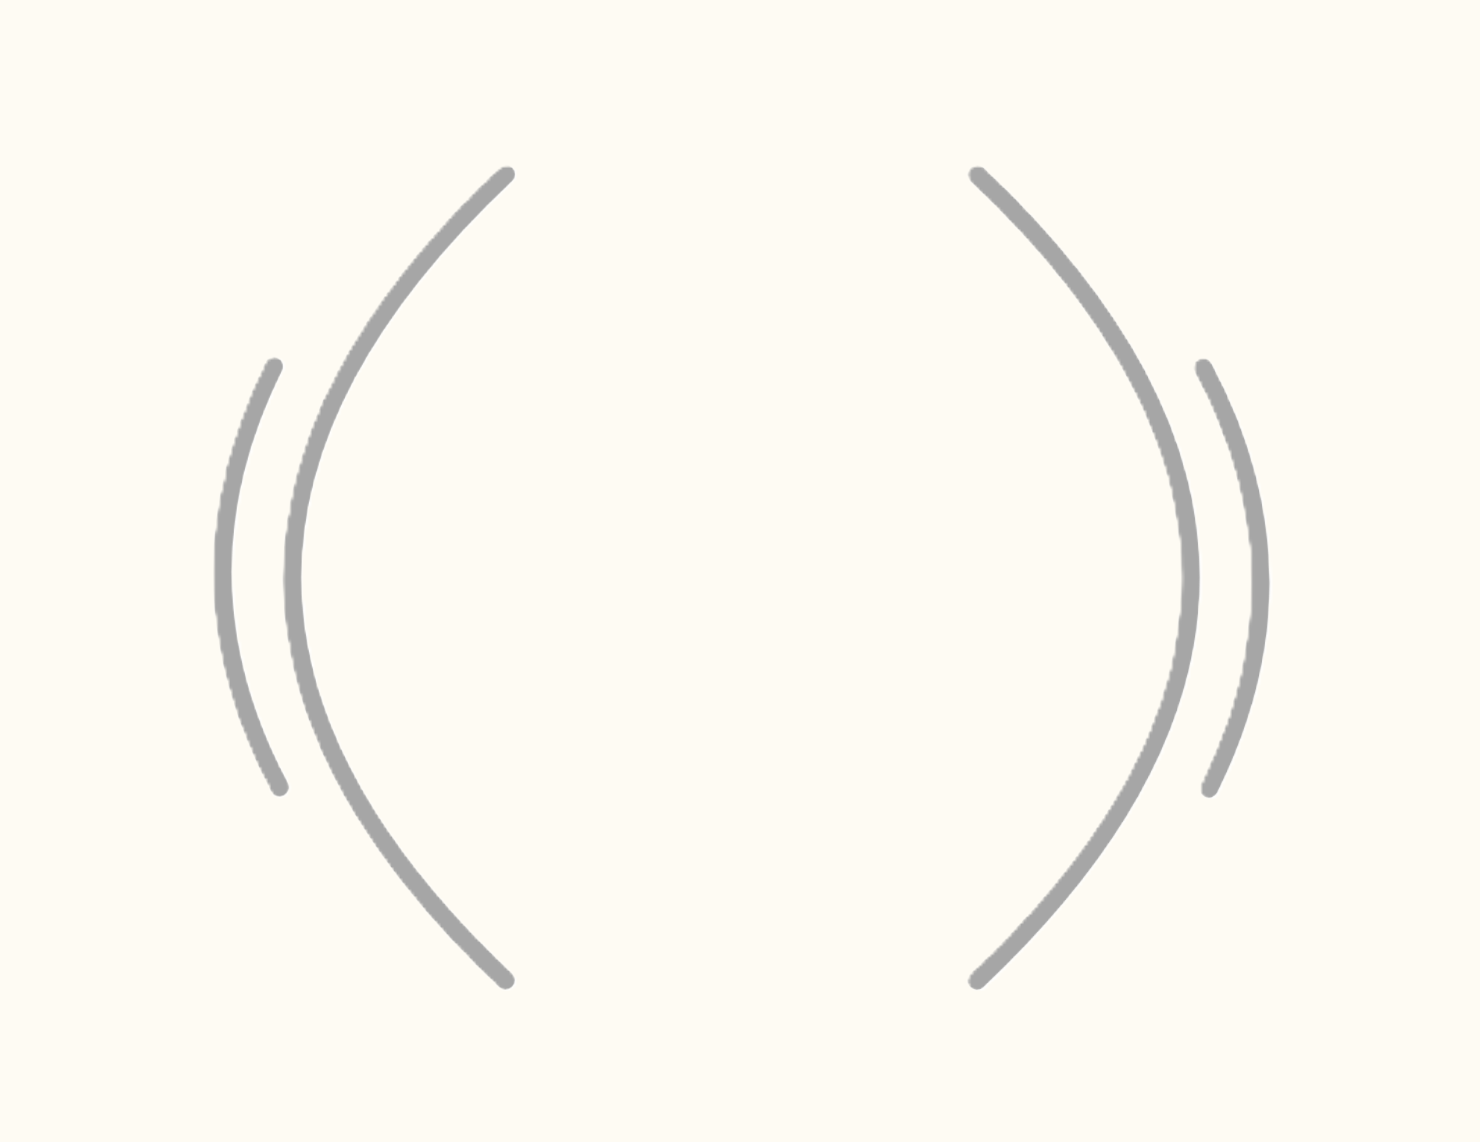
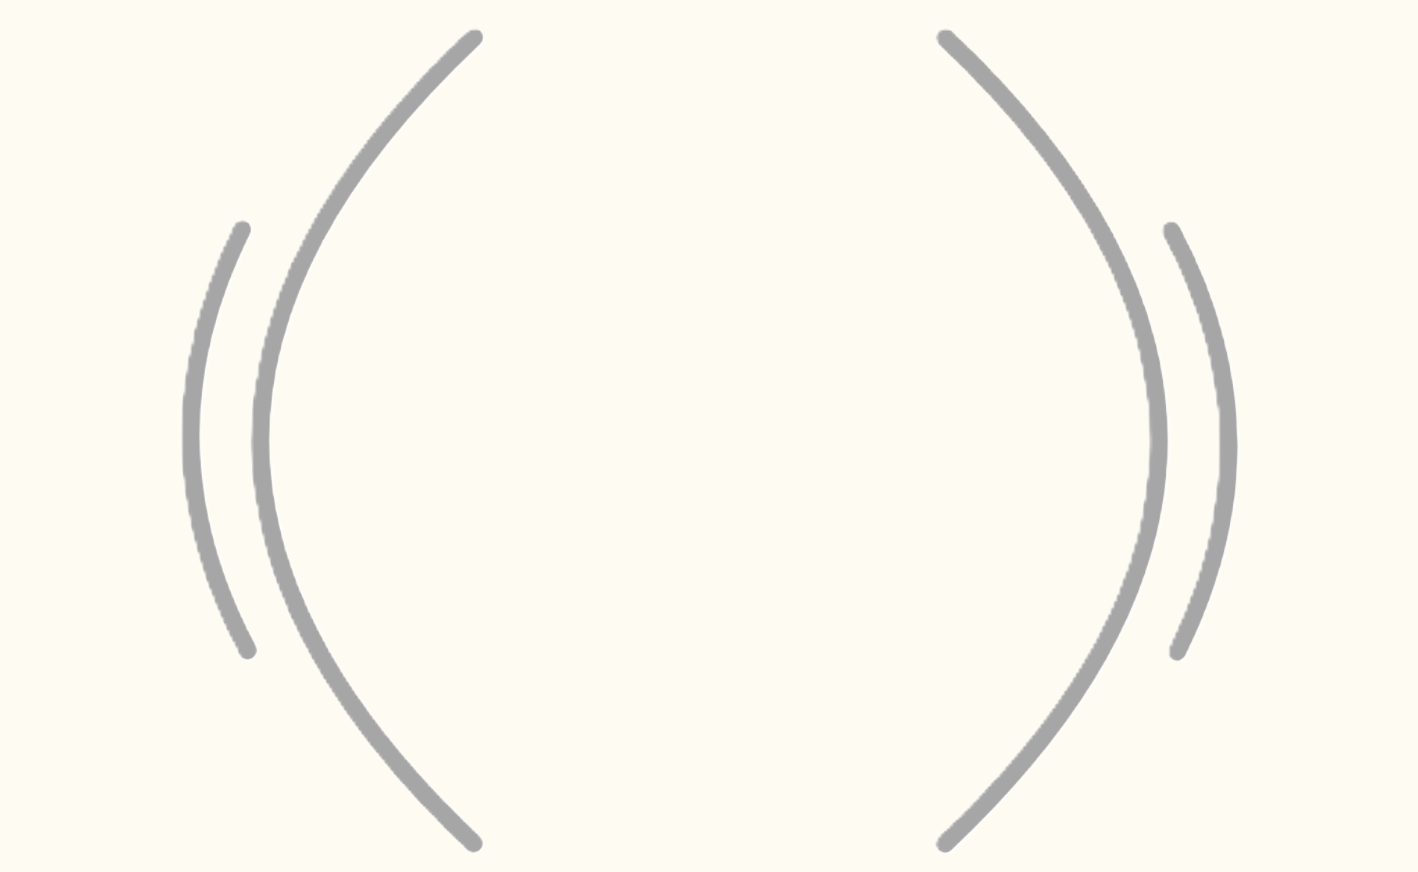
WORKS ACTUALLY

diff --git a/career-compass/career-compass-styles.css b/career-compass/career-compass-styles.css
@@ -234,11 +234,9 @@ html, body {
 /* ======= Carousel Section ======= */
 .carousel-container {
   position: relative;
-  height: 100%;
   background: url("images/featured-section/featured-carousel-background.png") center/contain no-repeat;
   overflow: hidden;
-  background-color: red;
-  flex: 2.5
+  flex: 2;
 }
 
 .carousel-track {
@@ -307,12 +305,12 @@ html, body {
   display: flex;
   flex-direction: row;
   background: var(--primary-color);
-  padding: 1vw 0.5vh;
+  padding: 0.5vh;
 }
 
 .overview-item {
   flex: 1;
-  margin: 3% 3% 0.5% 3%;
+  margin: 2% 2% 0.5% 2%;
   text-align: center;
 }
 
@@ -333,6 +331,6 @@ html, body {
 }
 
 .overview-image {
-  max-width: 10%;
+  max-width: 30%;
   height: auto;
 }
